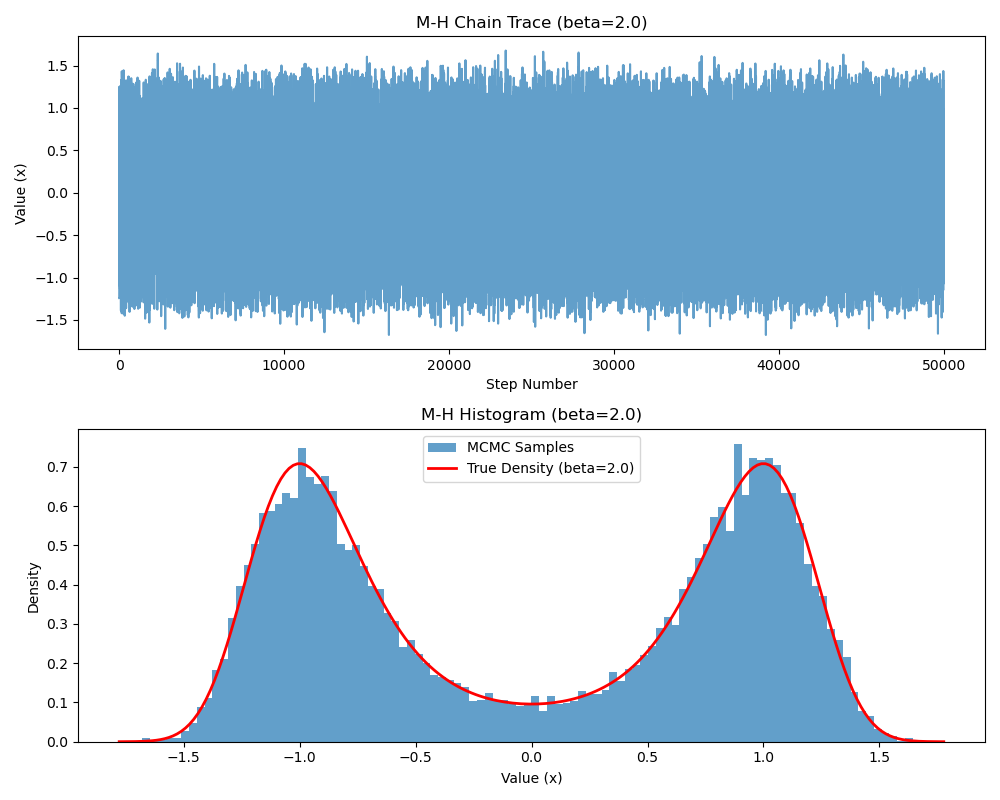
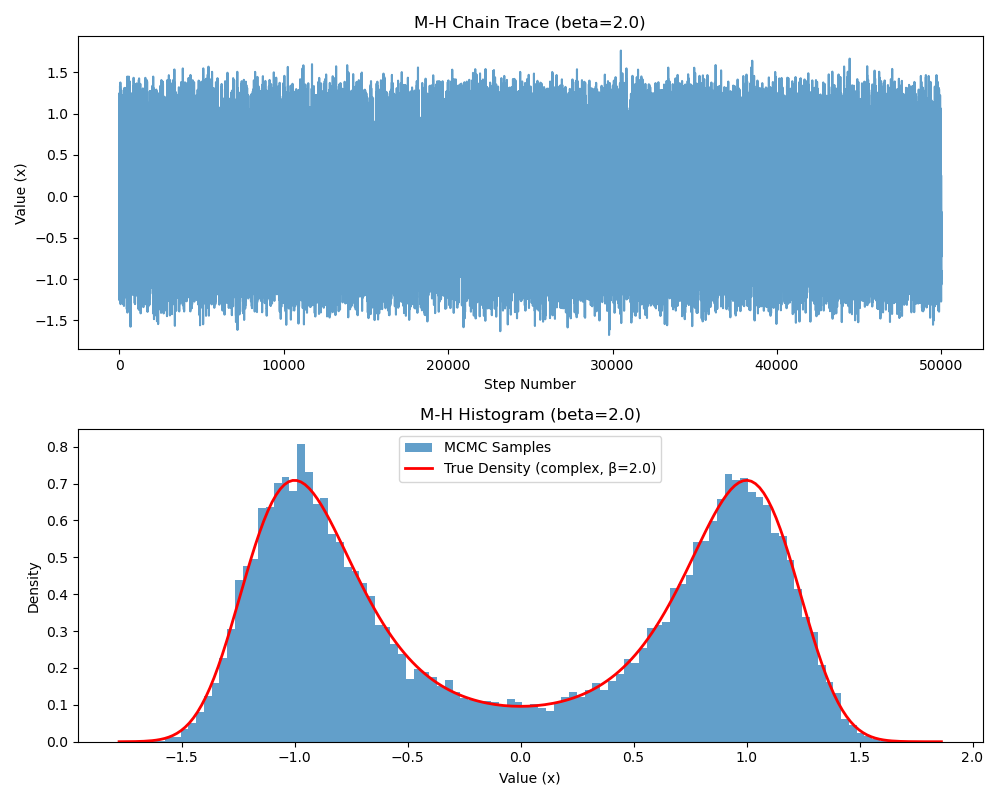
Dec11 examples to Paris

diff --git a/examples/run_experiment_paris.py b/examples/run_experiment_paris.py
@@ -13,12 +13,15 @@ def run_experiment(beta, initial_x, n_steps, step_size=None, use_tuner=False):
     print("\n" + "=" * 60)
     print(f"EXPERIMENT START | Target Beta = {beta:.1f} | Start X = {initial_x}")
     print("=" * 60)
+
+    density_func = lambda x: problem.target_density(x, beta)
     
     # Tune step size
     if use_tuner:
         tuned_step = metropolis.tune_step_size(
-            beta=beta, 
+            # beta=beta, # OLD signature removed
             initial_x=initial_x, 
+            unnormalized_density_func=density_func, # Final project Added
             target_rate=0.4
         )
         step_size = tuned_step
@@ -29,9 +32,10 @@ def run_experiment(beta, initial_x, n_steps, step_size=None, use_tuner=False):
     # Run the M-H sampler
     chain = metropolis.metropolis_hastings(
         n_steps=n_steps,
-        beta=beta,
+        # beta=beta, # OLD signature removed
         initial_x=initial_x,
         step_size=step_size,
+        unnormalized_density_func=density_func, # Final project Added
         burn_in=0.2, # Fixed 20% burn-in
         verbose=True # Show the final printout
     )
@@ -69,10 +73,15 @@ def run_experiment(beta, initial_x, n_steps, step_size=None, use_tuner=False):
     sem_Ex4 = (var_f4 / n)**0.5
     
     # Get true values
+    # true_Ex1 = problem.TRUE_Ex
+    # true_Ex2 = problem.get_true_even_moment(beta, 2)
+    # true_Ex3 = problem.TRUE_Ex3
+    # true_Ex4 = problem.get_true_even_moment(beta, 4)
+    # Final project Added
     true_Ex1 = problem.TRUE_Ex
-    true_Ex2 = problem.get_true_even_moment(beta, 2)
+    true_Ex2 = problem.get_true_even_moment(problem.target_density, beta, 2)
     true_Ex3 = problem.TRUE_Ex3
-    true_Ex4 = problem.get_true_even_moment(beta, 4)
+    true_Ex4 = problem.get_true_even_moment(problem.target_density, beta, 4)
     
     # Print a results table
     print("Moment | Estimate | Naive SEM (±) | True Value | Result")
@@ -90,7 +99,8 @@ def run_experiment(beta, initial_x, n_steps, step_size=None, use_tuner=False):
     analysis.plot_chain_trace(ax1, chain, f"M-H Chain Trace (beta={beta})")
     
     # Plot 2: The histogram
-    analysis.plot_histogram(ax2, chain, f"M-H Histogram (beta={beta})", beta)
+    # analysis.plot_histogram(ax2, chain, f"M-H Histogram (beta={beta})", beta)
+    analysis.plot_histogram(ax2, chain, f"M-H Histogram (beta={beta})", beta=beta, unnormalized_density_func=problem.target_density) # Final project Added
     
     fig.tight_layout()
     script_dir = os.path.dirname(os.path.abspath(__file__))
@@ -124,7 +134,7 @@ if __name__ == "__main__":
     # Experiment 2: The "Working" Chain
     # Low beta, start at 0, and auto-tune the step size
     run_experiment(
-        beta=2.0, 
+        beta=1.0, 
         initial_x=0.0, 
         n_steps=N_SAMPLES, 
         use_tuner=True
@@ -133,3 +143,144 @@ if __name__ == "__main__":
 """
 to run in terminal: python -m examples.run_experiment_paris
 """
+
+
+# Final Project Added
+def run_complex_experiment(beta, initial_x, n_steps, use_tuner=True):
+    """
+    Runs a single Metropolis-Hastings experiment for the complex potential, computes moments, and generates plots.
+    """
+    print("\n" + "=" * 60)
+    print(f"COMPLEX EXPERIMENT START | Target Beta = {beta:.1f} | Start X = {initial_x}")
+    print("=" * 60)
+    
+    # Create the density function closure (to include beta)
+    density_func = lambda x: problem.complex_target_density(x, beta)
+    
+    # 1. Tune step size
+    if use_tuner:
+        tuned_step = metropolis.tune_step_size(
+            initial_x=initial_x, 
+            unnormalized_density_func=density_func, 
+            target_rate=0.4
+        )
+        step_size = tuned_step
+    else:
+        # If not tuning, we use a fixed value to encourage sticking/failure
+        step_size = 0.05 
+
+    # 2. Run the M-H sampler
+    chain = metropolis.metropolis_hastings(
+        n_steps=n_steps,
+        initial_x=initial_x,
+        step_size=step_size,
+        unnormalized_density_func=density_func, # Pass the new density function
+        burn_in=0.2, 
+        verbose=True
+    )
+    
+    # Define Moment Functions (f(x) = x^n)
+    f_x1 = lambda x: x
+    f_x2 = lambda x: x**2
+    f_x3 = lambda x: x**3
+    f_x4 = lambda x: x**4
+    
+    # Get estimates
+    est_Ex1 = analysis.compute_expectation(chain, f_x1)
+    est_Ex2 = analysis.compute_expectation(chain, f_x2)
+    est_Ex3 = analysis.compute_expectation(chain, f_x3)
+    est_Ex4 = analysis.compute_expectation(chain, f_x4)
+    
+    n = len(chain)
+    
+    # Apply functions to the whole chain
+    chain_f1 = f_x1(chain)
+    chain_f2 = f_x2(chain)
+    chain_f3 = f_x3(chain)
+    chain_f4 = f_x4(chain)
+    
+    # Get the sample variance of the (transformed) chain
+    var_f1 = np.var(chain_f1)
+    var_f2 = np.var(chain_f2)
+    var_f3 = np.var(chain_f3)
+    var_f4 = np.var(chain_f4)
+    
+    # Calculate the naive SEM
+    sem_Ex1 = (var_f1 / n)**0.5
+    sem_Ex2 = (var_f2 / n)**0.5
+    sem_Ex3 = (var_f3 / n)**0.5
+    sem_Ex4 = (var_f4 / n)**0.5
+    
+    # Get true values (using the complex density function)
+    true_Ex1 = problem.TRUE_COMPLEX_Ex
+    true_Ex2 = problem.get_true_even_moment(problem.complex_target_density, beta, 2)
+    true_Ex3 = problem.TRUE_COMPLEX_Ex3
+    true_Ex4 = problem.get_true_even_moment(problem.complex_target_density, beta, 4)
+    
+    # Print results table
+    print("Moment | Estimate | Naive SEM (±) | True Value | Result")
+    print("------ | -------- | ------------- | ---------- | ------")
+    print(f"E[x]   | {est_Ex1:>8.4f} | {sem_Ex1:>13.6f} | {true_Ex1:>10.4f} | {'WRONG (Stuck!)' if not np.allclose(est_Ex1, true_Ex1, atol=0.2) else 'Correct'}")
+    print(f"E[x^2] | {est_Ex2:>8.4f} | {sem_Ex2:>13.6f} | {true_Ex2:>10.4f} | {'Correct' if np.allclose(est_Ex2, true_Ex2, atol=0.2) else 'WRONG'}")
+    print(f"E[x^3] | {est_Ex3:>8.4f} | {sem_Ex3:>13.6f} | {true_Ex3:>10.4f} | {'WRONG (Stuck!)' if not np.allclose(est_Ex3, true_Ex3, atol=0.2) else 'Correct'}")
+    print(f"E[x^4] | {est_Ex4:>8.4f} | {sem_Ex4:>13.6f} | {true_Ex4:>10.4f} | {'Correct' if np.allclose(est_Ex4, true_Ex4, atol=0.2) else 'WRONG'}")
+
+    # Plotting
+    fig, (ax1, ax2) = plt.subplots(2, 1, figsize=(10, 8))
+    analysis.plot_chain_trace(ax1, chain, f"M-H Chain Trace (Complex, beta={beta})")
+    
+    analysis.plot_histogram(ax2, chain, f"M-H Histogram (Complex, beta={beta})", 
+                        beta=beta, unnormalized_density_func=problem.complex_target_density)
+    fig.tight_layout()
+    script_dir = os.path.dirname(os.path.abspath(__file__))
+    filename = f"complex_experiment_beta_{beta}.png"
+    save_path = os.path.join(script_dir, filename)
+    plt.savefig(save_path)
+    print(f"\n Saved plot to examples/{filename}")
+
+
+# Call the complex experiment
+if __name__ == "__main__":
+    N_SAMPLES = 50000
+    
+    # Midterm Checkpoint Experiment 
+    # Experiment 1: high beta
+    run_experiment(
+        beta=20.0, 
+        initial_x=1.0, 
+        n_steps=N_SAMPLES, 
+        step_size=0.1,  # Force a small step
+        use_tuner=False
+    )
+    
+    # Experiment 2: low beta
+    run_experiment(
+        beta=1.0, 
+        initial_x=0.0, 
+        n_steps=N_SAMPLES, 
+        use_tuner=True
+    )
+
+    # Add new complex experiment
+    print("\n" + "#" * 20 + " COMPLEX POTENTIAL EXPERIMENTS " + "#" * 20)
+    
+    # Complex Experiment 1: Moderate Beta (should mix well)
+    run_complex_experiment(
+        beta=1.0,          
+        initial_x=0.0,
+        n_steps=N_SAMPLES,
+        use_tuner=True
+    )
+    
+    # Complex Experiment 2: High Beta (should stick)
+    run_complex_experiment(
+        beta=20.0,         
+        initial_x=3.0,     # Start in an extreme mode
+        n_steps=N_SAMPLES,
+        use_tuner=False    # Use fixed step size to force failure
+    )
+
+# running command
+'''
+(pycourse) paris@Mac final-project-group-0-2025 % python -m examples.run_experiment_paris
+'''
